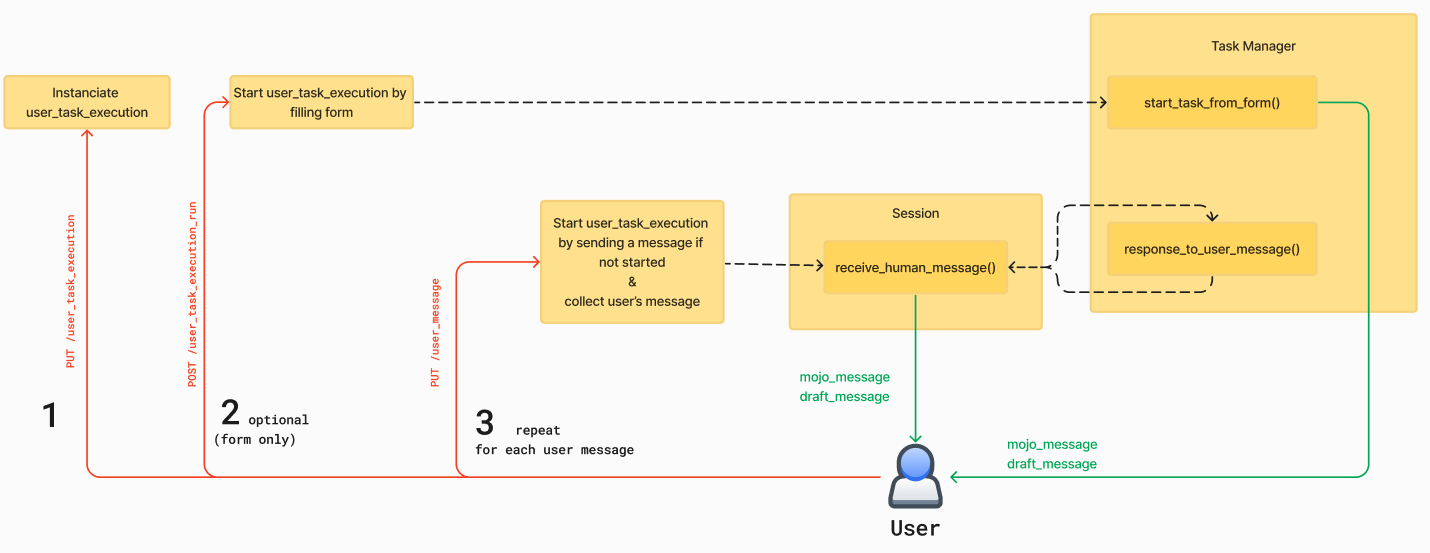
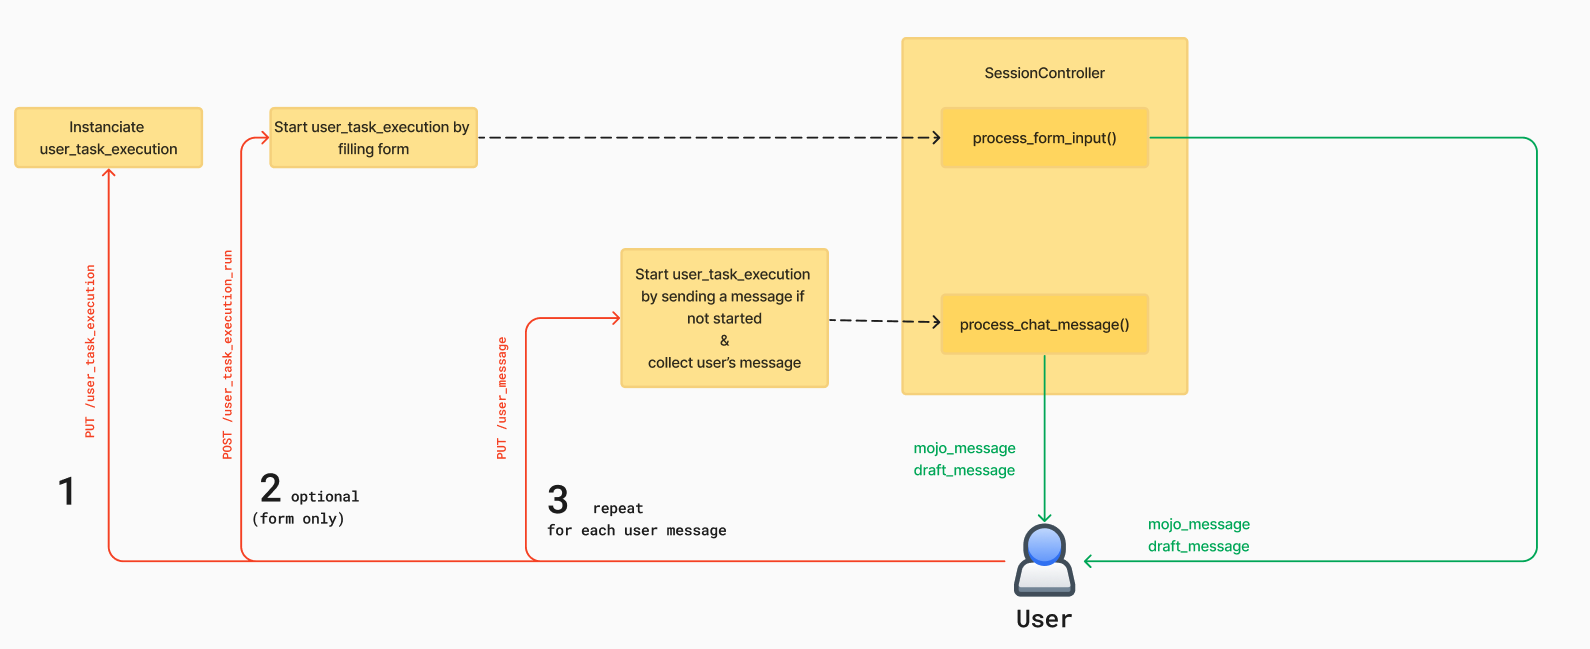
update doc

diff --git a/backend/app/app.py b/backend/app/app.py
@@ -191,28 +191,6 @@ def handle_message(data):
         log_error(f"Error while managing session events : {e}")
 
 
-def socketio_event_callback(event_name, data):
-    try:
-        if "session_id" in data:
-            session_id = data["session_id"]
-            app_version = version.parse(data["version"])
-            session = resume_session(session_id)
-        else:
-            message = {"error": "No session_id provided", "session_id": data.get("session_id")}
-            emit('error', message)
-            return
-        session.process_chat_message(data)
-    except Exception as e:
-        message = {"error": str(e), "session_id": data.get("session_id")}
-        emit('error', message)
-
-
-@server_socket.on('user_message')
-def handle_message(data):
-    emit("user_message_reception", {"success": "User message has been received", "session_id": data.get("session_id")})
-    socketio_event_callback('user_message', data)
-
-
 @server_socket.on('disconnect')
 def handle_message():
     try:

diff --git a/docs/design-principles/tasks/execute_task.md b/docs/design-principles/tasks/execute_task.md
@@ -96,8 +96,9 @@ class UserTaskExecutionRun(Resource):
         user_task_execution.start_date = datetime.now()
         db.session.commit()
         [...]
-        from models.assistant.session import Session as SessionModel
-        session = SessionModel(user_task_execution.session_id)
+        from models.assistant.session_controller import SessionController
+        session = SessionController(user_task_execution.session_id)
+
         def launch_process(session, app_version, platform, user_task_execution_pk, use_message_placeholder, use_draft_placeholder):
             session.process_form_input( app_version, platform, user_task_execution_pk, use_message_placeholder=use_message_placeholder, use_draft_placeholder=use_draft_placeholder)
             return
@@ -105,11 +106,9 @@ class UserTaskExecutionRun(Resource):
         server_socket.start_background_task(launch_process, session, app_version, platform, user_task_execution_pk, use_message_placeholder, use_draft_placeholder)
 ```
 
-The `Session` is the epicenter of task execution. The function `process_form_input()` will:
-- Asynchronously call the Background to ask for a task execution title and summary generation
+The `SessionController` is the epicenter of task execution. The function `process_form_input()` will:
+- Asynchronously generate task execution title and summary
 - Prepare first assistant's response to the user.
-
-> The Task Manager detailled flow is described in part 3.
 
 ![start_user_task_execution_from_form](../../images/task_execution/start_user_task_execution_from_form.png)
 
@@ -139,9 +138,9 @@ class UserMessage(Resource):
         [...]
 ```
 
-Once the User Task Execution is updated, the Resource will instanciate a `Session` object (`backend/app/models/session.py`), responsible for managing user and assistant messages exchanges.
+Once the User Task Execution is updated, the Resource will instanciate a `SessionController` object (`backend/app/models/assistant/session_controller.py`), responsible for managing user and assistant messages exchanges.
 
-Finally, it launched a parallel thread in which it runs method `process_chat_message` of `Session`.
+Finally, it launched a parallel thread in which it runs method `process_chat_message` of `SessionController`.
     
 ```python
 [...]
@@ -149,14 +148,19 @@ class UserMessage(Resource):
     [...]
     def put(self, user_id):
         [...]
-        from models.assistant import Session as SessionModel
-        session = SessionModel(session_id)
+        session = SessionController(session_id)
 
-        session_message = {"text": message.message["text"], "message_pk": message.message_pk,
-                            "audio": not "text" in request.form, "user_task_execution_pk":user_task_execution_pk,
-                            "home_chat_pk": home_chat.home_chat_pk if home_chat else None,
-                                "message_date": message_date.isoformat(),
-                            "use_message_placeholder": use_message_placeholder, "use_draft_placeholder": use_draft_placeholder}
+        session_message = {"text": db_message.message["text"],
+                               "message_pk": db_message.message_pk,
+                               "audio": not "text" in request.form,
+                               "user_task_execution_pk": user_task_execution_pk,
+                               "origin": origin,
+                               "home_chat_pk": db_home_chat.home_chat_pk if db_home_chat else None,
+                               "message_date": message_date.isoformat(),
+                               "platform": platform,
+                               "use_message_placeholder": use_message_placeholder,
+                               "use_draft_placeholder": use_draft_placeholder}
+
 
         server_socket.start_background_task(session.process_chat_message, "user_message", session_message)
         [...]
@@ -164,212 +168,49 @@ class UserMessage(Resource):
 
 The `process_chat_message` method will:
 - Check the message is a task execution message
-- Instanciate a Task Manager
-- Call appropriate `assistant_response_generator` to generate the assistant's response to the user.
+- Asynchronously generate task execution title and summary
+- Instanciate an appropriate `ChatAssistant` object depending of the type of the task
+- Call `generate_message()` of this assistant to generate the assistant's response to the user.
 
 ```python
 [...]
-class Session:
-    [...]
-    def process_chat_message(self, event_name, message):
-        [...]
-        response_event_name, response_message = self.__manage_task_session(message, app_version)
-        [...]
+class SessionController:
     
-    def __manage_task_session(self, platform, user_task_execution_pk, use_message_placeholder=False, use_draft_placeholder=False):
-        [...]
-            return self.__manage_instruct_task_session(platform, user_task_execution_pk, use_message_placeholder, use_draft_placeholder)
+    [...]
+
+    def process_chat_message(self, message):
+
         [...]
 
-    def __manage_instruct_task_session(self, platform, user_task_execution_pk, use_message_placeholder=False, use_draft_placeholder=False):
-        [...]
-            tag_proper_nouns = platform == "mobile"
-            task_assistant_response_generator = InstructTaskAssistantResponseGenerator(mojo_message_token_stream_callback=self._mojo_message_stream_callback,
-                                                                              draft_token_stream_callback=self._produced_text_stream_callback,
-                                                                              use_message_placeholder=use_message_placeholder,
-                                                                               use_draft_placeholder=use_draft_placeholder,
-                                                                               tag_proper_nouns=tag_proper_nouns,
-                                                                               user=self._get_user(),
-                                                                               session_id=self.id,
-                                                                               user_messages_are_audio= platform=="mobile",
-                                                                               running_user_task_execution_pk=user_task_execution_pk)
+        if "message_pk" not in message:
+            self._new_message(message, Message.user_message_key, "user_message")
 
-            response_message = task_assistant_response_generator.generate_message()
-            response_language = task_assistant_response_generator.context.state.current_language
-            return response_message, response_language
+        [...]
+
+        if "user_task_execution_pk" in message and message["user_task_execution_pk"] is not None:
+
+            [...]
+
+            server_socket.start_background_task(TaskExecutionTitleSummaryGenerator.generate_title_and_summary,
+                                                    user_task_execution.user_task_execution_pk, callback=callback)
+
+            [...]
+            # For now only task sessions
+            if user_task_execution.task.type == "instruct":
+                return self.__manage_instruct_task_session(self.platform, user_task_execution, use_message_placeholder,
+                                                           use_draft_placeholder)
+            else:
+                return self.__manage_workflow_session(self.platform, user_task_execution, use_message_placeholder,
+                                                      use_draft_placeholder)
         [...]
 [...]
 ```
 
-> The Task Manager detailled flow is described in part 3.
+
 
 ![start_user_task_execution_with_message](../../images/task_execution/start_user_task_execution_with_message.png)
      
-### 3. InstructTaskAssistantResponseGenerator
-The `InstructTaskAssistantResponseGenerator` is the epicenter of task execution. It is responsible for managing the execution of a task by the user and the assistant.
-Its inheritance tree is as follows:
-- `AssistantMessageGenerator`: responsible for generating the assistant's message to the user
-    - `AssistantResponseGenerator`: responsible for generating the assistant's response to the user (used in the context of a response)
-        - `TaskEnabledAssistantResponseGenerator`: Specified in collecting the task execution context
-            - `InstructTaskEnabledAssistantResponseGenerator`: Holds the prompt and instruct tasks tags management
-                - `InstructTaskAssistantResponseGenerator`
-                
-
-The core method of those object lies in `AssistantMessageGenerator` method `generate_message`.
-
-```python
-class AssistantMessageGenerator(ABC):
-    [...]
-    def generate_message(self):
-        [...]
-            placeholder = self._handle_placeholder()
-            if placeholder:
-                return placeholder
-            prompt = self._render_prompt_from_template()
-            llm_output = self._generate_message_from_prompt(prompt)
-            if llm_output:
-                return self._handle_llm_output(llm_output)
-            return None
-[...]
-```
-
-Let's break this method down.
-
-> Note: We won't deal with placeholders, those are basically useful to return a placeholder instead of a LLM generated message for development purposes.
-
-#### 3.1. Prompt preparation
-First, the assistant collects all the data it needs to answer the user's message. Those data will be used to render Jinja2 template and generate the assistant's prompt.
-
-Some data are stored in context, other in KnowledgeManager and some need specific calls to database to be collected.
-
-```python
-class InstructTaskEnabledAssistantResponseGeneratorTaskEnabledAssistantResponseGenerator, ABC)::
-    [...]
-    def _render_prompt_from_template(self):
-        try:
-            mojo_knowledge = KnowledgeManager.get_mojo_knowledge()
-            user_datetime_context = KnowledgeManager.get_global_context_knowledge()
-            user_company_knowledge = KnowledgeManager.get_user_company_knowledge(self.context.user_id)
-            available_user_tasks = self.__get_available_user_instruct_tasks()
-            task_specific_instructions = self.__get_specific_task_instructions(self.running_task) if self.running_task else None
-            produced_text_done = self.context.state.get_produced_text_done()
-
-            return self.prompt_template.render(mojo_knowledge=mojo_knowledge,
-                                                    user_datetime_context=user_datetime_context,
-                                                    username=self.context.username,
-                                                    user_company_knowledge=user_company_knowledge,
-                                                    tasks = available_user_tasks,
-                                                    running_task=self.running_task,
-                                                    task_specific_instructions=task_specific_instructions,
-                                                    produced_text_done=produced_text_done,
-                                                    audio_message=self.context.user_messages_are_audio,
-                                                    tag_proper_nouns=self.tag_proper_nouns,
-                                                    language=None
-                                                    )
-        except Exception as e:
-            raise Exception(f"{InstructTaskEnabledAssistantResponseGenerator.logger_prefix} _render_prompt_from_template :: {e}")
-
-[...]
-```
-
-> 💡The advanced prompting strategy used in the Task Manager is described in detail in the following article: [Advanced Prompting Strategies for Digital Assistant Development](https://blog.hoomano.com/advanced-prompting-strategies-for-digital-assistant-development-b6698996954f)
-
-The Jinja2 prompt is rendered using collecting data.
-At next step, it will be used as the content of initial system message of list of messages to send to LLM.
-
-
-#### 3.2. LLM call
-The LLM call is provided with various parameters and a stream callback function that will stream assistant's tokens on the go to user's interface.
-
-```python
-class AssistantResponseGenerator(AssistantMessageGenerator, ABC):
-    [...]
-    def _generate_message_from_prompt(self, prompt):
-       [...]
-        conversation_list = self.context.state.get_conversation_as_list(self.context.session_id)
-        messages = [{"role": "system", "content": prompt}] + conversation_list
-        response = model_loader.main_llm.invoke(messages, self.context.user_id,
-                                                    temperature=0,
-                                                    max_tokens=4000,
-                                                    label="CHAT",
-                                                    stream=True, stream_callback=self._token_callback)
-
-        return response.strip() if response else None
-        [...]
-[...]
-```
-
-#### 3.3. Response analysis
-Once LLM call completed, we can analyse the answer.
-
-The prompt asks for the assistant to spot the language used by the user in the first information they provided. This is useful to adapt the assistant's response to the user's language dynamically during the task.
-To check if the assistant spotted the language, we look for the language tag in the response. If found, we update the session with the language and commit the change.
-
-```python
-class AssistantResponseGenerator(AssistantMessageGenerator, ABC):
-[...]
-    def __manage_response_language_tags(self, response):
-        """
-        Remove language tags from the response and update the language in the context
-        :param response: response
-        """
-        try:
-            if AssistantResponseGenerator.user_language_start_tag in response:
-                try:
-                    self.context.state.current_language = AssistantMessageGenerator.remove_tags_from_text(response, AssistantResponseGenerator.user_language_start_tag,
-                                                                        AssistantResponseGenerator.user_language_end_tag).lower()
-                except Exception as e:
-                    pass
-        except Exception as e:
-            raise Exception(f"__manage_response_language_tags:: {e}")
-[...]
-```
-
-Then, we check for specific tags that will determine the nature of the response.
-```python
-class InstructTaskEnabledAssistantResponseGenerator(TaskEnabledAssistantResponseGenerator, ABC):
-    [...]
-    def _manage_response_task_tags(self, response):
-        [...]
-        if TaskInputsManager.ask_user_input_start_tag in response:
-            return self.task_input_manager.manage_ask_input_text(response)
-        return {"text": response}
-        [...]
-
-    def _manage_execution_tags(self, response):
-        [...]
-            if ExecutionManager.execution_start_tag in response:
-                return self.execution_manager.manage_execution_text(response, self.running_task, self.running_task_displayed_data,
-                                          self.running_user_task_execution, self.task_executor,
-                                          use_draft_placeholder=self.use_draft_placeholder)
-        [...]
-    
-    def _manage_response_tags(self, response):
-        execution = self._manage_execution_tags(response)
-        if execution:
-            return execution
-        return self._manage_response_task_tags(response)
-```
-
-For now, 3 types of responses can be generated. Those 3 types are each handled by a specific object:
-
-##### TaskInputsManager
-- TaskInputsManager handles a response indicating the assistant needs more information from the user to complete the task. In this case, the response format will include a question addressed to the user enclosed in specific tags.
-```python
-[...]
-if TaskInputsManager.ask_user_input_start_tag in response:
-    return self.task_input_manager.manage_ask_input_text(response)
-[...]
-```
-Basically, the TaskInputsManager will extract the question addressed to the user from the LLM response by removing the tags so that it can be displayed properly to the user.
-
-#### 3.5. Response to user
-Finally, the method `generate_message` returns the assistant's message that should be sent to the user (or None if it was a `draft_message` managed by TaskExecutionManager).
-
-Then, the session will get this message, the associated event_name and the eventual detected language, generate audio version if platform is mobile and send mojo message to the user using socketio.
-
-
-### 4. Iterating on a task
+### 3. Iterating on a task
 
 The task execution process is an iterative process. The user and the assistant exchange messages until the user is satisfied with the produced result.
 
